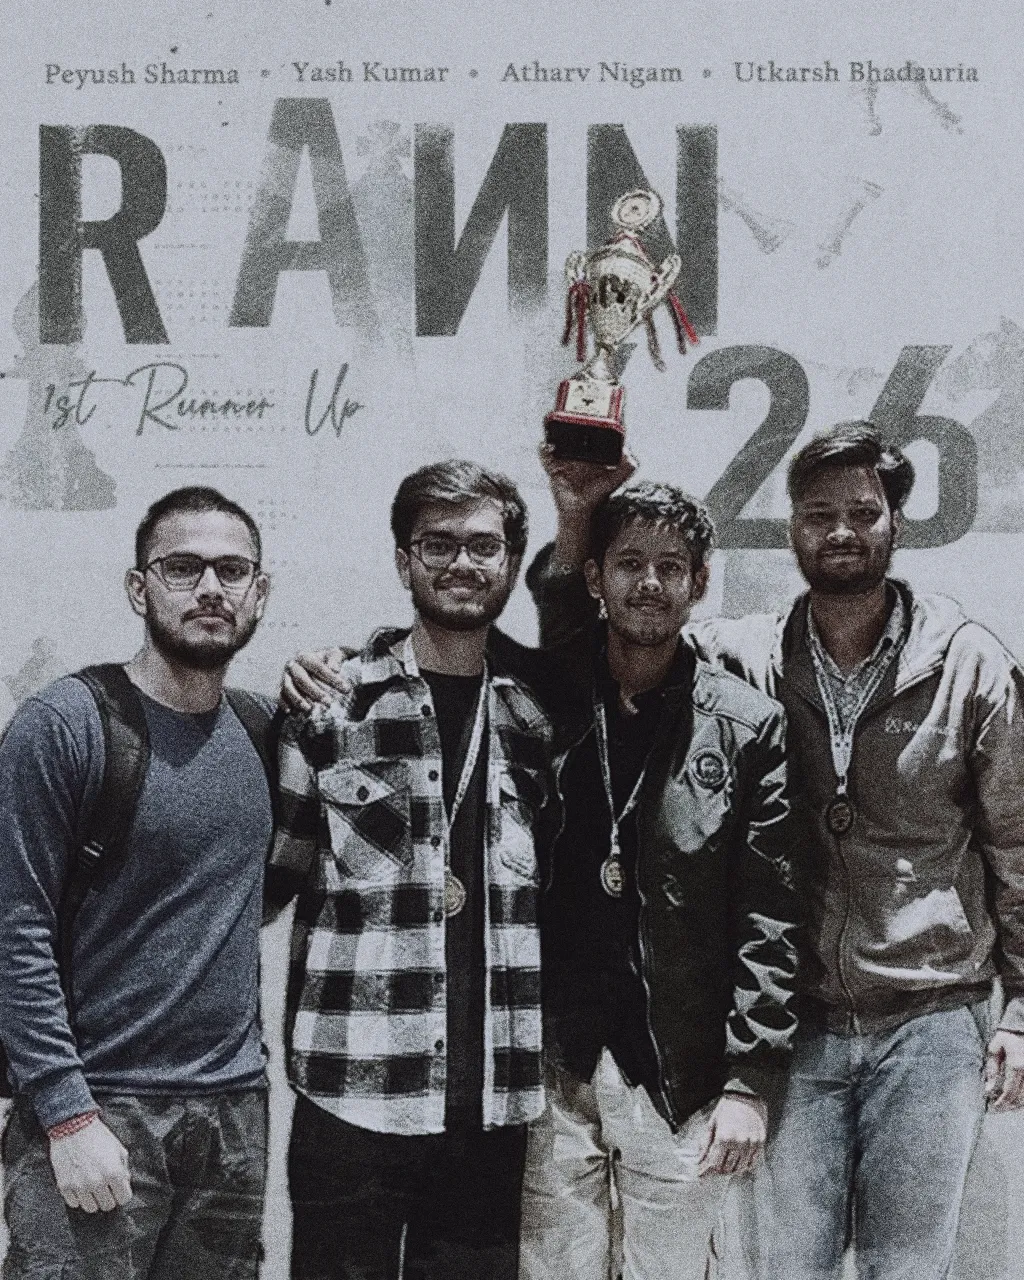
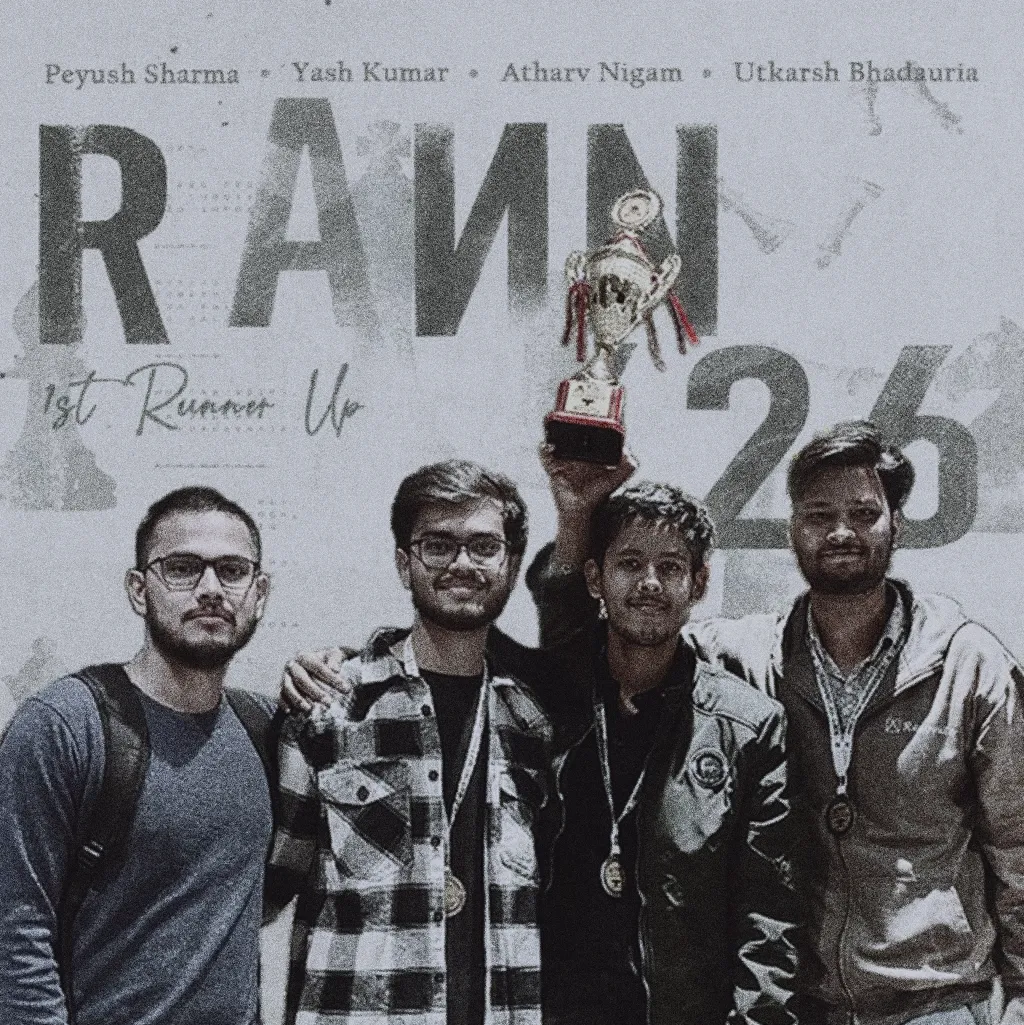
add hero button back and active state of nav item to just colored and event gallery nav link fix

diff --git a/src/components/Navbar.js b/src/components/Navbar.js
@@ -9,7 +9,12 @@ import { Menu, X, User } from "lucide-react";
 
 import { userButtonAppearance } from "@/lib/clerkAppearance";
 import { useApi } from "@/lib/api";
-import { motion, AnimatePresence, useScroll, useMotionValueEvent } from "framer-motion";
+import {
+  motion,
+  AnimatePresence,
+  useScroll,
+  useMotionValueEvent,
+} from "framer-motion";
 
 export default function Navbar() {
   const { userId } = useAuth();
@@ -64,7 +69,7 @@ export default function Navbar() {
 
   const navLinks = [
     { name: "Leaderboard", path: "/leaderboard" },
-    { name: "Gallery", path: "/gallery" },
+    { name: "Gallery", path: "/event-gallery" },
     { name: "Team", path: "/team" },
     { name: "Recruitment", path: recruitmentPath },
   ];
@@ -82,9 +87,7 @@ export default function Navbar() {
           transition: "opacity 0.35s ease-out",
         }}
       >
-        <div
-          className="w-full transition-all duration-500 ease-out bg-transparent"
-        >
+        <div className="w-full transition-all duration-500 ease-out bg-transparent">
           <div className="max-w-7xl mx-auto flex items-center justify-between px-6 md:px-10 h-16 md:h-20">
             {/* Logo */}
             <Link
@@ -92,12 +95,7 @@ export default function Navbar() {
               onClick={() => setIsMobileMenuOpen(false)}
               className="relative z-50 flex items-center hover:opacity-70 transition-opacity"
             >
-              <Image
-                src="/logo.png"
-                alt="EnPassant"
-                width={26}
-                height={26}
-              />
+              <Image src="/logo.png" alt="EnPassant" width={26} height={26} />
             </Link>
 
             {/* Desktop Nav */}
@@ -109,22 +107,14 @@ export default function Navbar() {
                   className={`
                     group relative font-inter font-semibold text-[13px] tracking-[0.14em] uppercase
                     transition-colors duration-200 py-1
-                    ${isActive(link.path)
-                      ? "text-[#c41e3a]"
-                      : "text-[#a0a0a0] group-hover:text-white"
+                    ${
+                      isActive(link.path)
+                        ? "text-[#c41e3a]"
+                        : "text-[#a0a0a0] hover:text-white"
                     }
                   `}
                 >
-                  {/* Light Flair Background */}
-                  <div
-                    className={`
-                      absolute inset-0 top-1/2 -translate-y-1/2 -z-10
-                      bg-[radial-gradient(ellipse_at_center,rgba(196,30,58,0.35)_0%,transparent_70%)]
-                      blur-[4px] scale-150 transition-all duration-300 ease-out pointer-events-none
-                      ${isActive(link.path) ? "opacity-100" : "opacity-0 group-hover:opacity-100"}
-                    `}
-                  />
-                  <span className={`relative z-10 transition-all duration-300 ${isActive(link.path) ? "drop-shadow-[0_0_8px_rgba(196,30,58,0.8)]" : "group-hover:drop-shadow-[0_0_8px_rgba(255,255,255,0.5)]"}`}>
+                  <span className="relative z-10 transition-colors duration-300">
                     {link.name}
                   </span>
                 </Link>
@@ -142,7 +132,9 @@ export default function Navbar() {
                   <UserButton.MenuItems>
                     <UserButton.Link
                       label="Profile"
-                      labelIcon={<User size={15} color="#ffffff" strokeWidth={2} />}
+                      labelIcon={
+                        <User size={15} color="#ffffff" strokeWidth={2} />
+                      }
                       href="/profile"
                     />
                     <UserButton.Action label="signOut" />
@@ -215,7 +207,11 @@ export default function Navbar() {
                   key={link.name}
                   initial={{ y: 16, opacity: 0 }}
                   animate={{ y: 0, opacity: 1 }}
-                  transition={{ delay: 0.05 * i, duration: 0.3, ease: [0.16, 1, 0.3, 1] }}
+                  transition={{
+                    delay: 0.05 * i,
+                    duration: 0.3,
+                    ease: [0.16, 1, 0.3, 1],
+                  }}
                 >
                   <Link
                     href={link.path}
@@ -223,22 +219,14 @@ export default function Navbar() {
                     className={`
                       group relative font-inter font-semibold text-[15px] tracking-[0.12em] uppercase
                       transition-colors duration-200 py-1
-                      ${isActive(link.path)
-                        ? "text-[#c41e3a]"
-                        : "text-white/60 hover:text-white/90"
+                      ${
+                        isActive(link.path)
+                          ? "text-[#c41e3a]"
+                          : "text-white/60 hover:text-white/90"
                       }
                     `}
                   >
-                    {/* Light Flair Background */}
-                    <div
-                      className={`
-                        absolute inset-0 top-1/2 -translate-y-1/2 -z-10
-                        bg-[radial-gradient(ellipse_at_center,rgba(196,30,58,0.35)_0%,transparent_70%)]
-                        blur-[4px] scale-150 transition-all duration-300 ease-out pointer-events-none
-                        ${isActive(link.path) ? "opacity-100" : "opacity-0 group-hover:opacity-100"}
-                      `}
-                    />
-                    <span className={`relative z-10 transition-all duration-300 ${isActive(link.path) ? "drop-shadow-[0_0_8px_rgba(196,30,58,0.8)]" : "group-hover:drop-shadow-[0_0_8px_rgba(255,255,255,0.5)]"}`}>
+                    <span className="relative z-10 transition-colors duration-300">
                       {link.name}
                     </span>
                   </Link>
@@ -248,25 +236,38 @@ export default function Navbar() {
               <motion.div
                 initial={{ scaleX: 0 }}
                 animate={{ scaleX: 1 }}
-                transition={{ delay: 0.2, duration: 0.4, ease: [0.16, 1, 0.3, 1] }}
+                transition={{
+                  delay: 0.2,
+                  duration: 0.4,
+                  ease: [0.16, 1, 0.3, 1],
+                }}
                 className="w-10 h-px bg-white/15 my-2"
               />
 
               <motion.div
                 initial={{ y: 16, opacity: 0 }}
                 animate={{ y: 0, opacity: 1 }}
-                transition={{ delay: 0.25, duration: 0.3, ease: [0.16, 1, 0.3, 1] }}
+                transition={{
+                  delay: 0.25,
+                  duration: 0.3,
+                  ease: [0.16, 1, 0.3, 1],
+                }}
               >
                 {userId ? (
                   <div className="flex flex-col items-center gap-3">
                     <span className="text-white/30 text-[10px] tracking-[0.2em] uppercase font-inter">
                       Account
                     </span>
-                    <UserButton afterSignOutUrl="/" appearance={userButtonAppearance}>
+                    <UserButton
+                      afterSignOutUrl="/"
+                      appearance={userButtonAppearance}
+                    >
                       <UserButton.MenuItems>
                         <UserButton.Link
                           label="Profile"
-                          labelIcon={<User size={15} color="#ffffff" strokeWidth={2} />}
+                          labelIcon={
+                            <User size={15} color="#ffffff" strokeWidth={2} />
+                          }
                           href="/profile"
                         />
                         <UserButton.Action label="manageAccount" />

diff --git a/src/app/page.js b/src/app/page.js
@@ -16,9 +16,12 @@ const StrategySection = dynamic(() => import("@/components/CommunityDesc"), {
 const EcosystemSection = dynamic(() => import("@/components/AboutClub"), {
   ssr: true,
 });
-const DriftWallSection = dynamic(() => import("@/components/DriftWallSection"), {
-  ssr: true,
-});
+const DriftWallSection = dynamic(
+  () => import("@/components/DriftWallSection"),
+  {
+    ssr: true,
+  },
+);
 const ClubJournalSection = dynamic(
   () => import("@/components/ClubJournalSection"),
   { ssr: true },
@@ -173,6 +176,13 @@ export default function Home() {
                 </span>
                 <br />
                 Dedicated to spread the game of chess
+              </div>
+              <div className="group relative w-full sm:w-auto flex justify-center mt-2 md:mt-0">
+                <Link href={userId ? "/recruitment" : "/sign-up"} className="btn-bracket group">
+                  <div className="btn-inner bg-[#990000] hover:bg-[#cc0000] text-white px-6 md:px-8 py-4 uppercase font-inter font-semibold text-[14px] tracking-[0.12em] transition-colors duration-200 ease-in-out whitespace-nowrap">
+                    {userId ? "Go to Recruitment" : "Sign Up Here"}
+                  </div>
+                </Link>
               </div>
             </div>
           </div>
